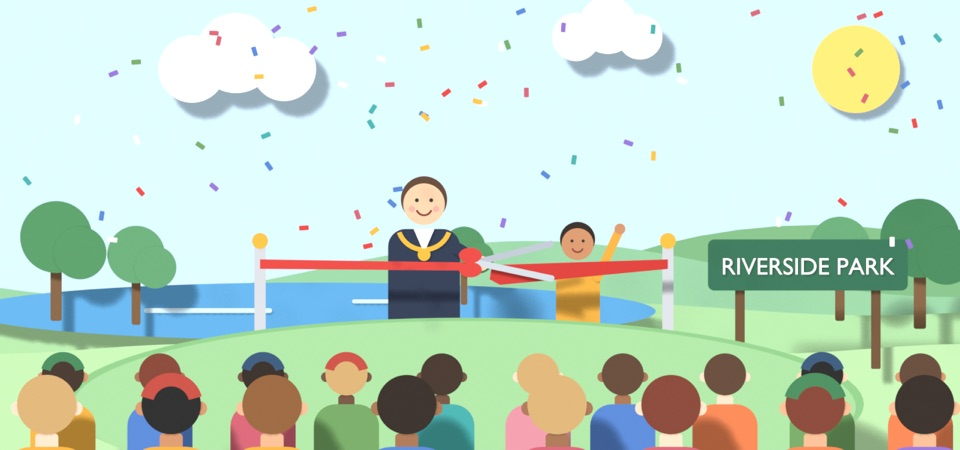
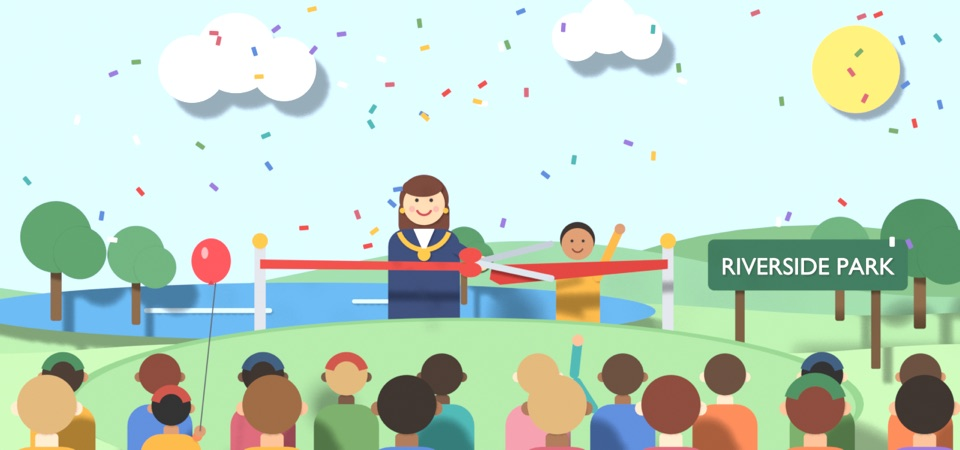
Demo photo: a woman mayor, a child with a balloon, one wave

diff --git a/index.html b/index.html
@@ -52,7 +52,7 @@
               </div>
             </div>
             <div class="band">
-              <div class="photo"><img src="/img/park-opening.jpg" width="960" height="450" alt="Paper cut-out picture: the mayor and a young helper cut a red ribbon at Riverside Park as a crowd cheers, with a lake and a hill behind."></div>
+              <div class="photo"><img src="/img/park-opening.jpg" width="960" height="450" alt="Paper cut-out picture: the mayor, a woman with a gold chain of office, and a young helper cut a red ribbon at Riverside Park; a crowd watches, one child holding a red balloon, with a lake and a hill behind."></div>
               <p class="cap">The mayor cuts the ribbon at the riverside park plan’s launch.</p>
             </div>
             <div class="band">
